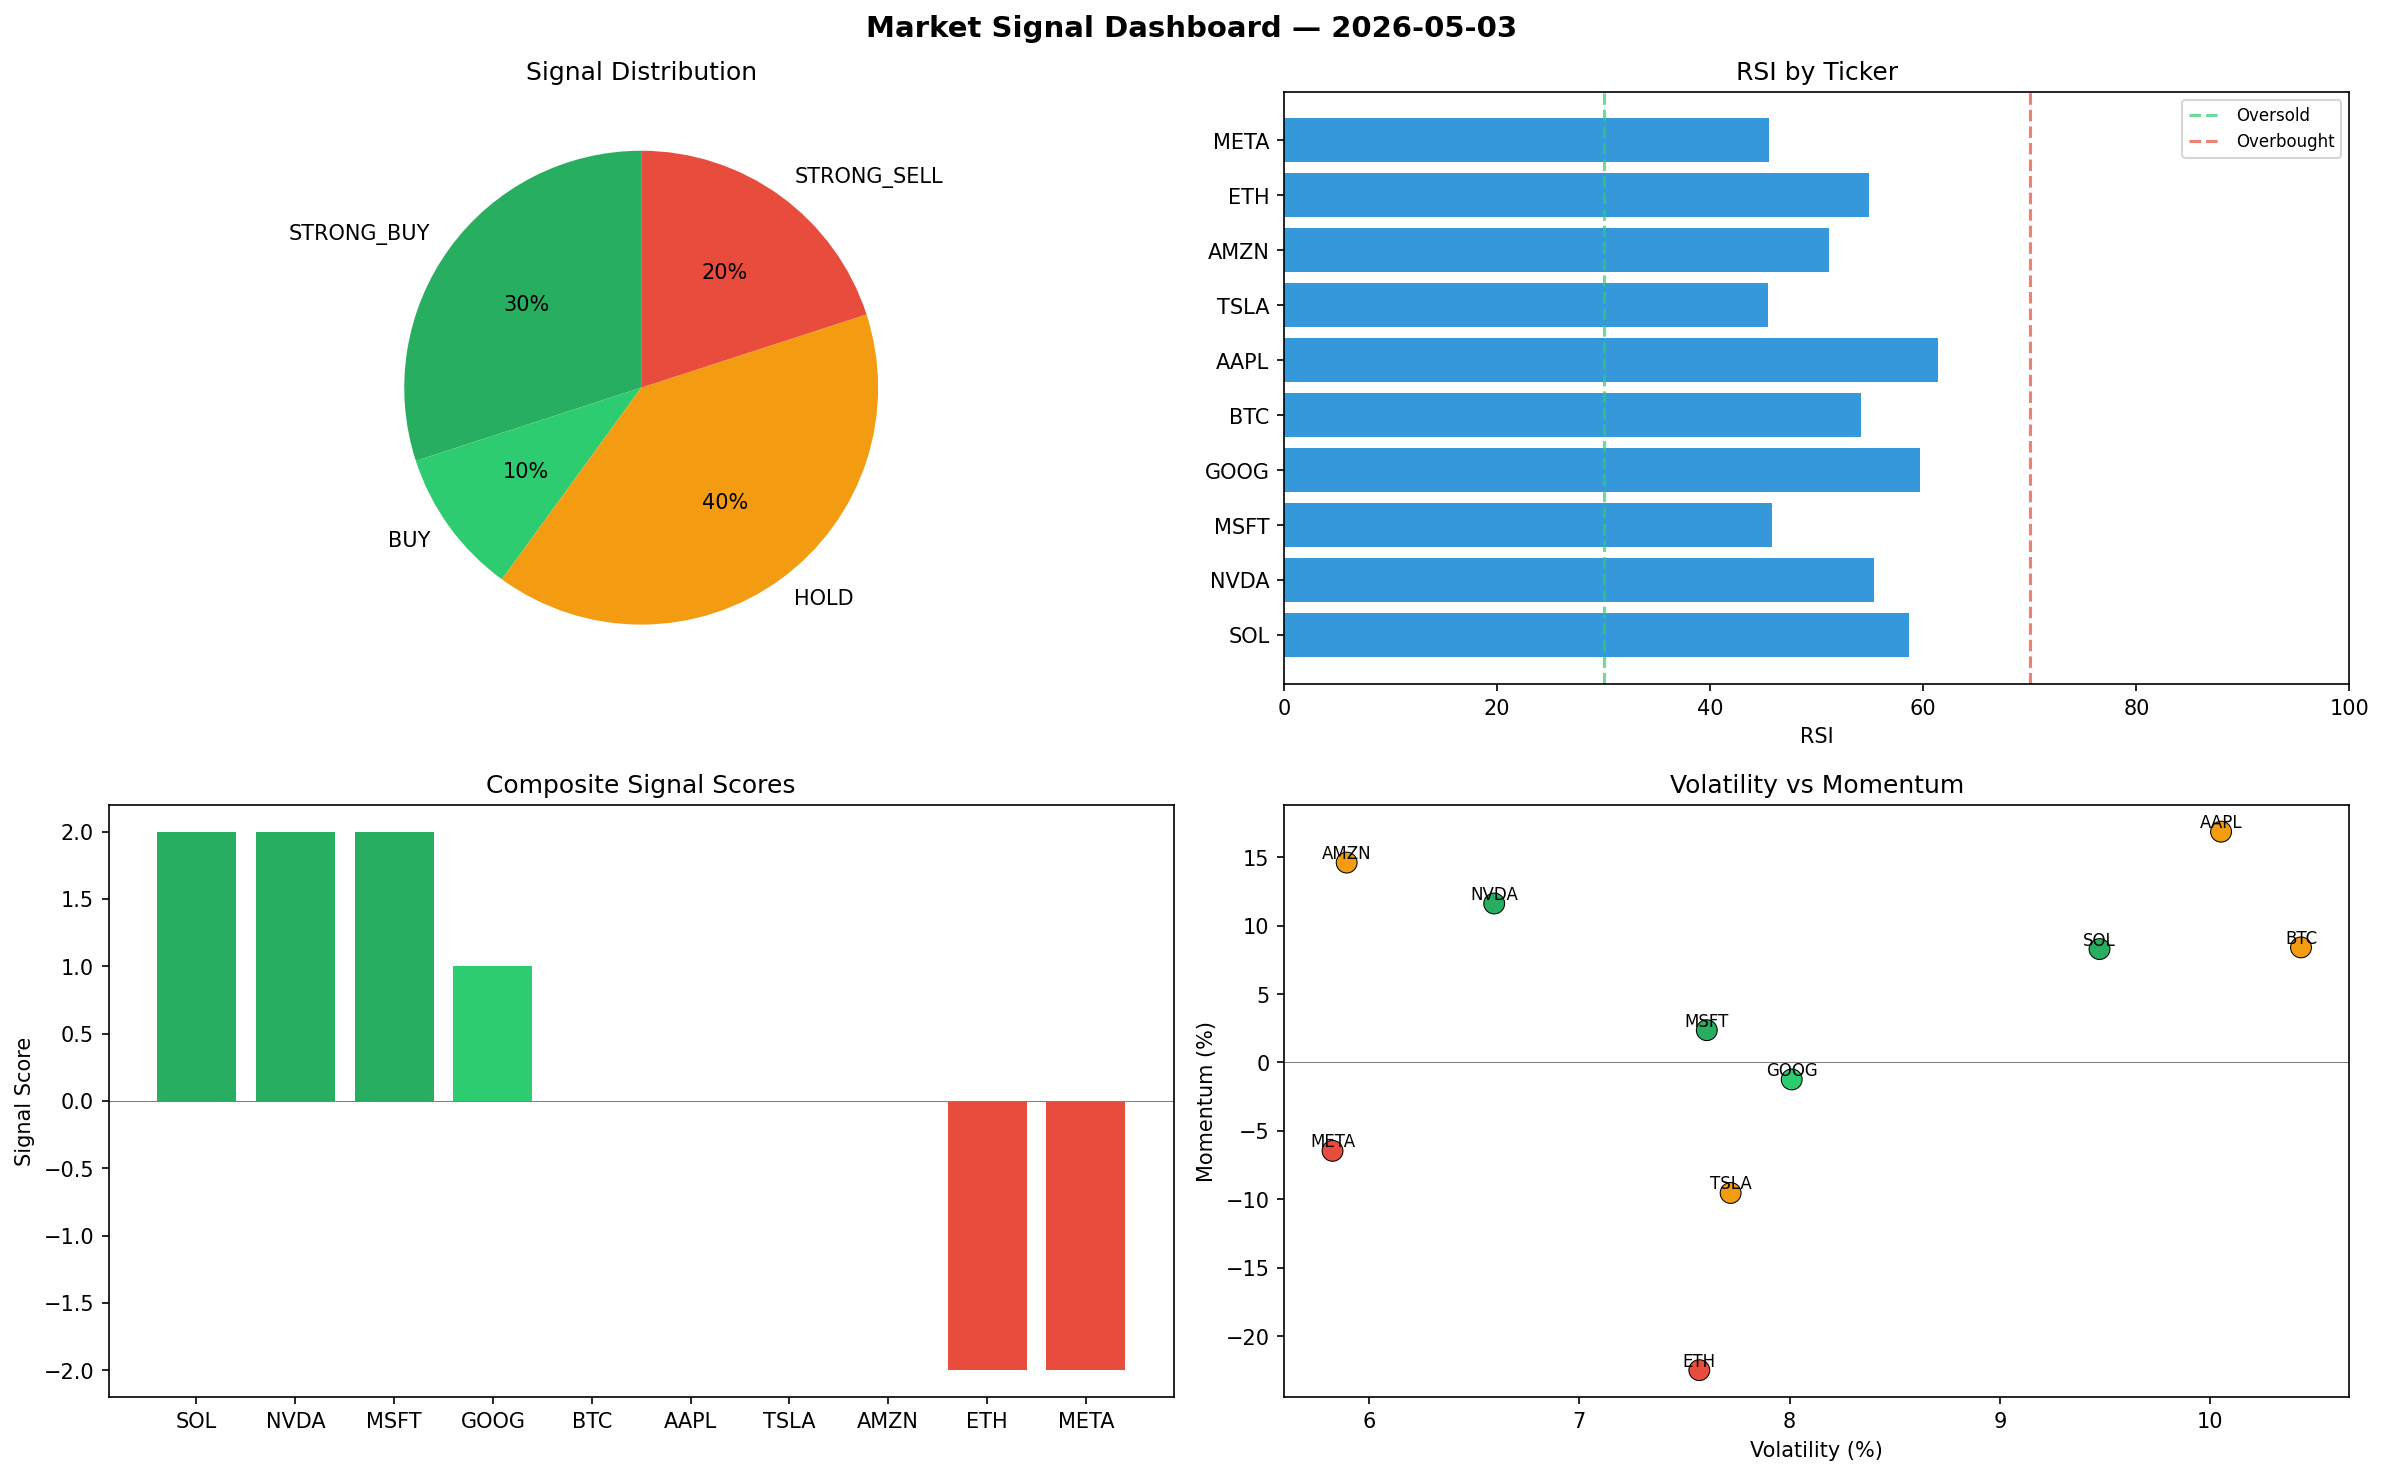
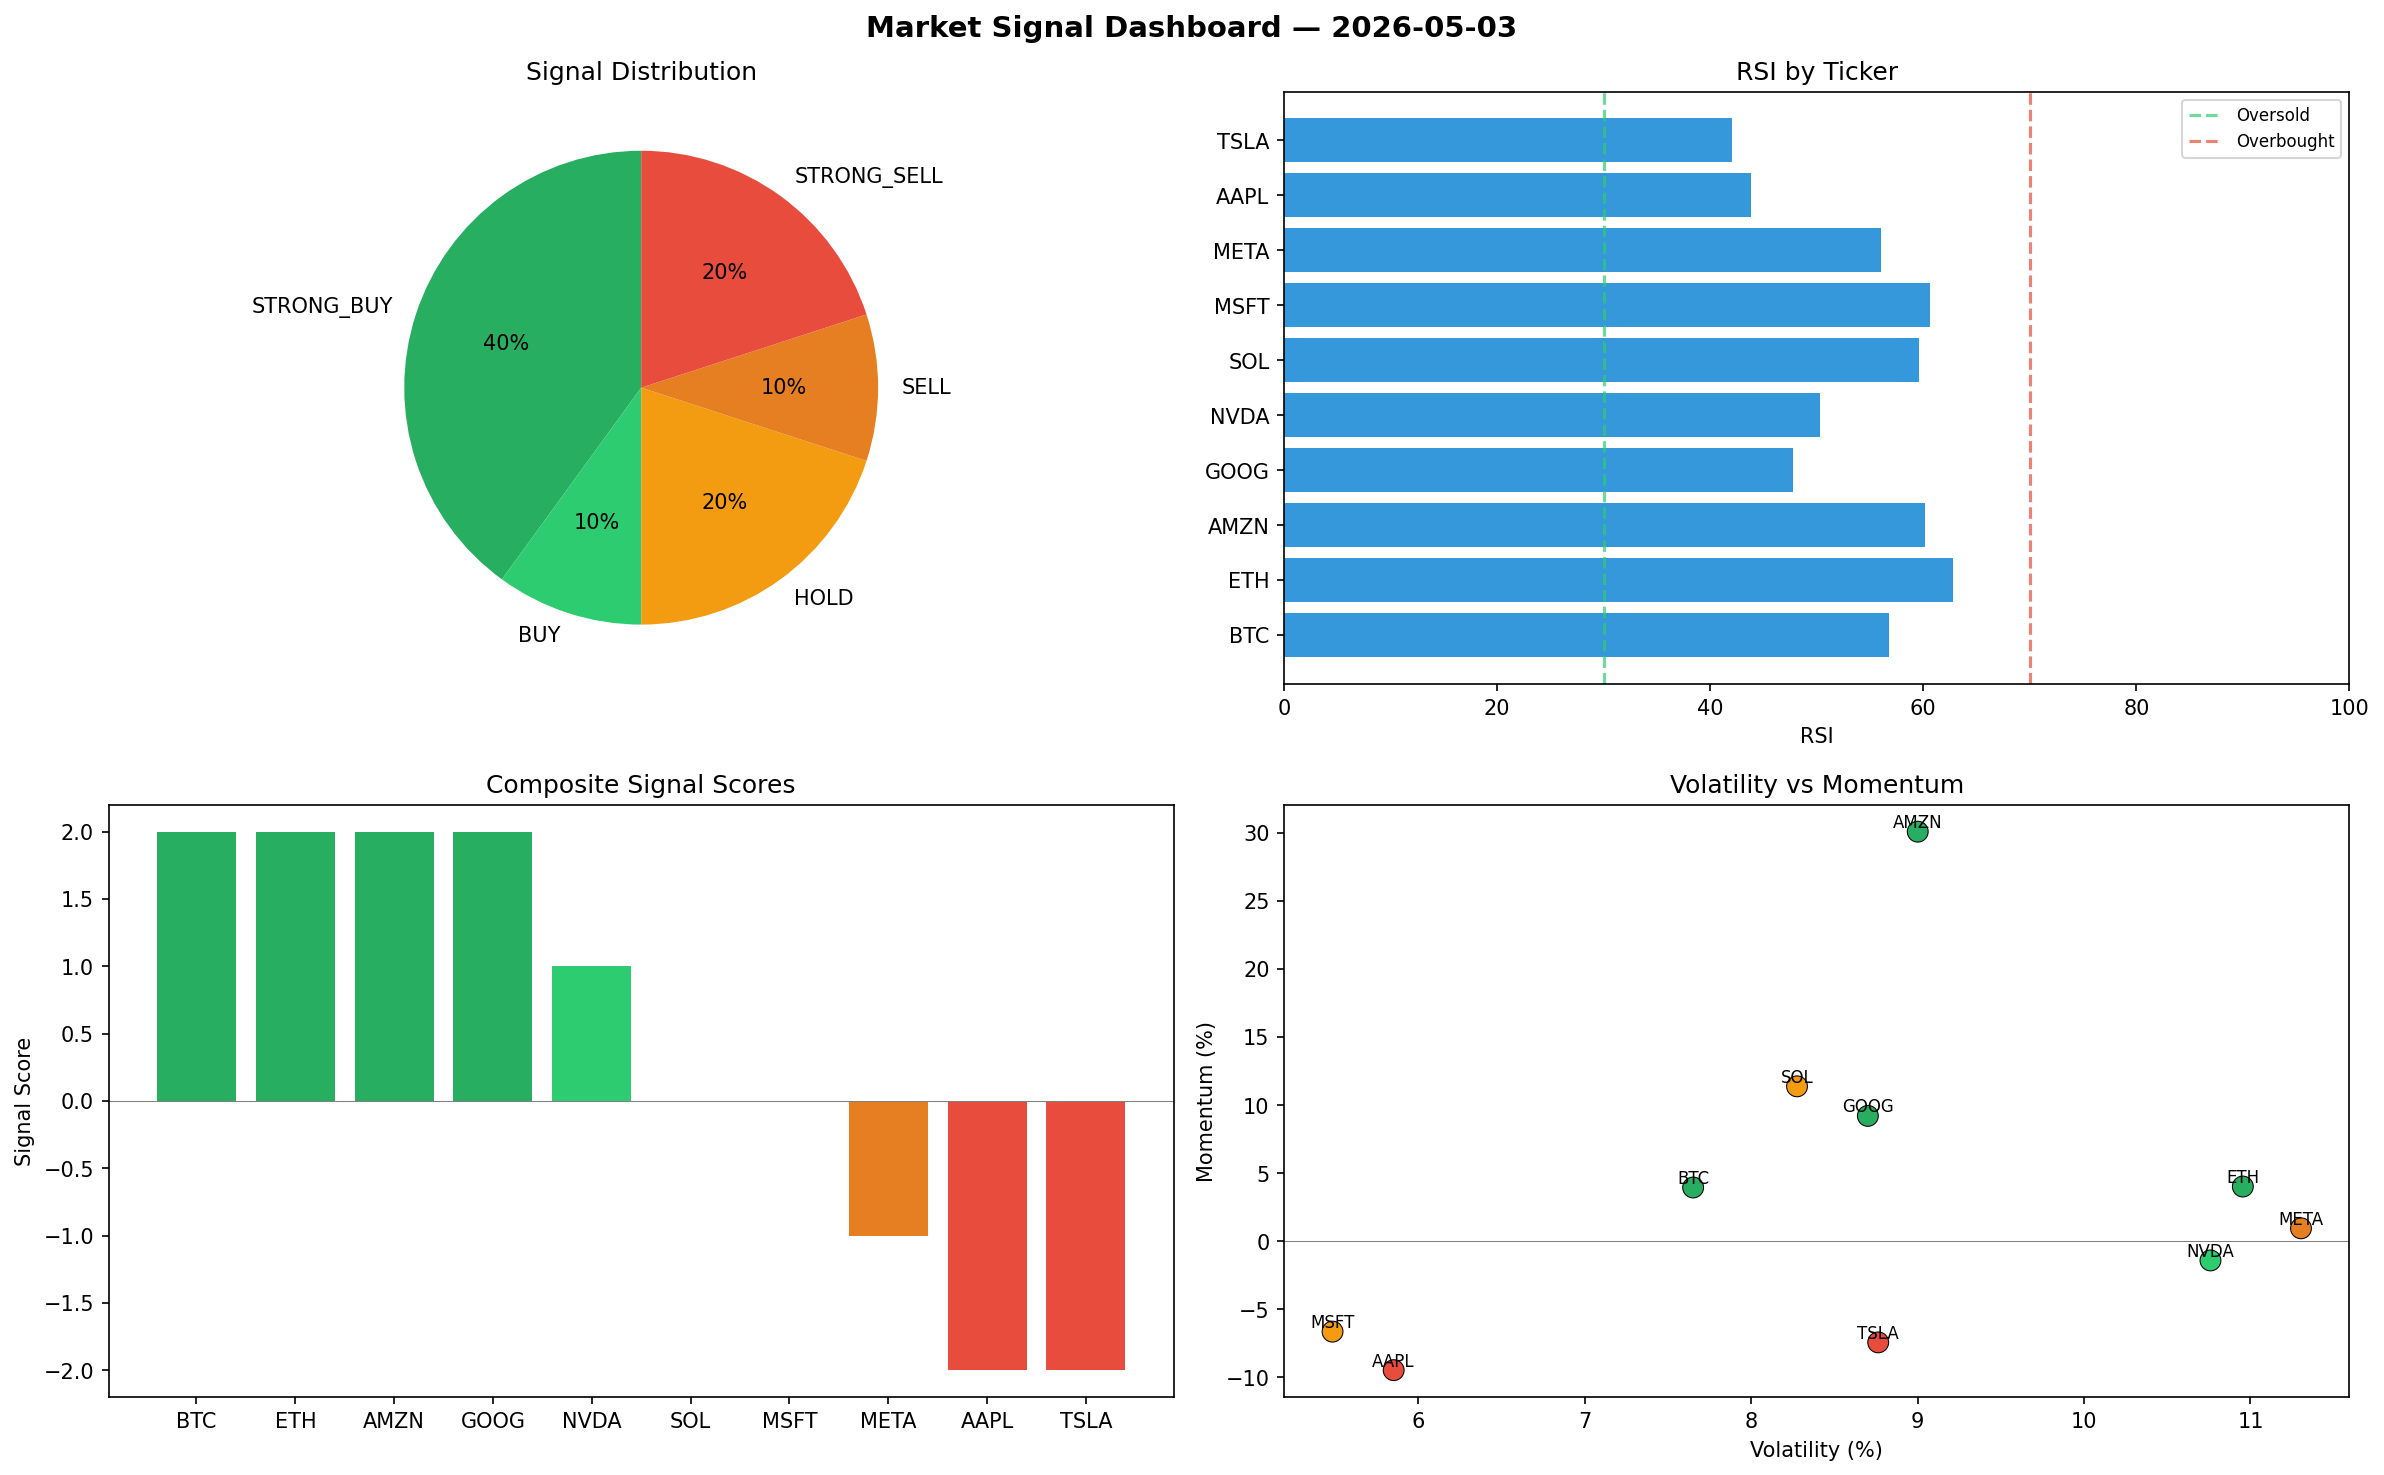
automated-bots: market signals 2026-05-03T15:10

diff --git a/logs/2026-05-03.md b/logs/2026-05-03.md
@@ -1,6 +1,6 @@
 # Market Signal Report — 2026-05-03
 
-**Run ID:** `e3269ee050` | **Buy:** 4 | **Sell:** 2 | **Hold:** 4
+**Run ID:** `3ac57bb303` | **Buy:** 5 | **Sell:** 3 | **Hold:** 2
 
 ![Dashboard](2026-05-03_dashboard.png)
 
@@ -8,28 +8,28 @@
 
 | Ticker | Price | Signal | Score | RSI | Momentum | Confidence |
 |--------|-------|--------|-------|-----|----------|------------|
-| SOL | $3863.14 | **STRONG_BUY** | 2 | 58.66 | 0.0829 | 0.5 |
-| NVDA | $4619.28 | **STRONG_BUY** | 2 | 55.37 | 0.1162 | 0.5 |
-| MSFT | $5012.75 | **STRONG_BUY** | 2 | 45.76 | 0.0236 | 0.5 |
-| GOOG | $3232.16 | **BUY** | 1 | 59.73 | -0.0124 | 0.25 |
-| BTC | $4586.0 | **HOLD** | 0 | 54.17 | 0.0841 | 0.0 |
-| AAPL | $1794.65 | **HOLD** | 0 | 61.4 | 0.1687 | 0.0 |
-| TSLA | $4043.77 | **HOLD** | 0 | 45.43 | -0.0954 | 0.0 |
-| AMZN | $1980.95 | **HOLD** | 0 | 51.13 | 0.1461 | 0.0 |
-| ETH | $3202.09 | **STRONG_SELL** | -2 | 54.94 | -0.2249 | 0.5 |
-| META | $199.1 | **STRONG_SELL** | -2 | 45.49 | -0.0646 | 0.5 |
+| BTC | $2874.44 | **STRONG_BUY** | 2 | 56.76 | 0.0394 | 0.5 |
+| ETH | $1743.63 | **STRONG_BUY** | 2 | 62.79 | 0.0401 | 0.5 |
+| AMZN | $894.28 | **STRONG_BUY** | 2 | 60.2 | 0.3008 | 0.5 |
+| GOOG | $1669.98 | **STRONG_BUY** | 2 | 47.79 | 0.092 | 0.5 |
+| NVDA | $4820.97 | **BUY** | 1 | 50.28 | -0.0142 | 0.25 |
+| SOL | $3768.92 | **HOLD** | 0 | 59.62 | 0.1137 | 0.0 |
+| MSFT | $3540.85 | **HOLD** | 0 | 60.59 | -0.0665 | 0.0 |
+| META | $449.2 | **SELL** | -1 | 55.99 | 0.0094 | 0.25 |
+| AAPL | $4209.48 | **STRONG_SELL** | -2 | 43.83 | -0.0948 | 0.5 |
+| TSLA | $827.73 | **STRONG_SELL** | -2 | 42.07 | -0.0744 | 0.5 |
 
 ## Delta vs Yesterday
 
 | Ticker | Today | Yesterday | Price Change | Signal Changed |
 |--------|-------|-----------|-------------|----------------|
-| SOL | STRONG_BUY | STRONG_SELL | 📈 114.52% | ⚠ YES |
-| NVDA | STRONG_BUY | BUY | 📈 7.26% | ⚠ YES |
-| MSFT | STRONG_BUY | SELL | 📈 36.97% | ⚠ YES |
-| GOOG | BUY | STRONG_BUY | 📉 -31.48% | ⚠ YES |
-| BTC | HOLD | HOLD | 📈 274.58% | — |
-| AAPL | HOLD | STRONG_SELL | 📈 67.26% | ⚠ YES |
-| TSLA | HOLD | STRONG_BUY | 📈 42.15% | ⚠ YES |
-| AMZN | HOLD | STRONG_BUY | 📉 -57.57% | ⚠ YES |
-| ETH | STRONG_SELL | STRONG_BUY | 📉 -26.94% | ⚠ YES |
-| META | STRONG_SELL | STRONG_BUY | 📉 -78.32% | ⚠ YES |
+| BTC | STRONG_BUY | HOLD | 📈 134.78% | ⚠ YES |
+| ETH | STRONG_BUY | STRONG_BUY | 📉 -60.22% | — |
+| AMZN | STRONG_BUY | STRONG_BUY | 📉 -80.84% | — |
+| GOOG | STRONG_BUY | STRONG_BUY | 📉 -64.6% | — |
+| NVDA | BUY | BUY | 📈 11.94% | — |
+| SOL | HOLD | STRONG_SELL | 📈 109.29% | ⚠ YES |
+| MSFT | HOLD | SELL | 📉 -3.25% | ⚠ YES |
+| META | SELL | STRONG_BUY | 📉 -51.09% | ⚠ YES |
+| AAPL | STRONG_SELL | STRONG_SELL | 📈 292.32% | — |
+| TSLA | STRONG_SELL | STRONG_BUY | 📉 -70.9% | ⚠ YES |
